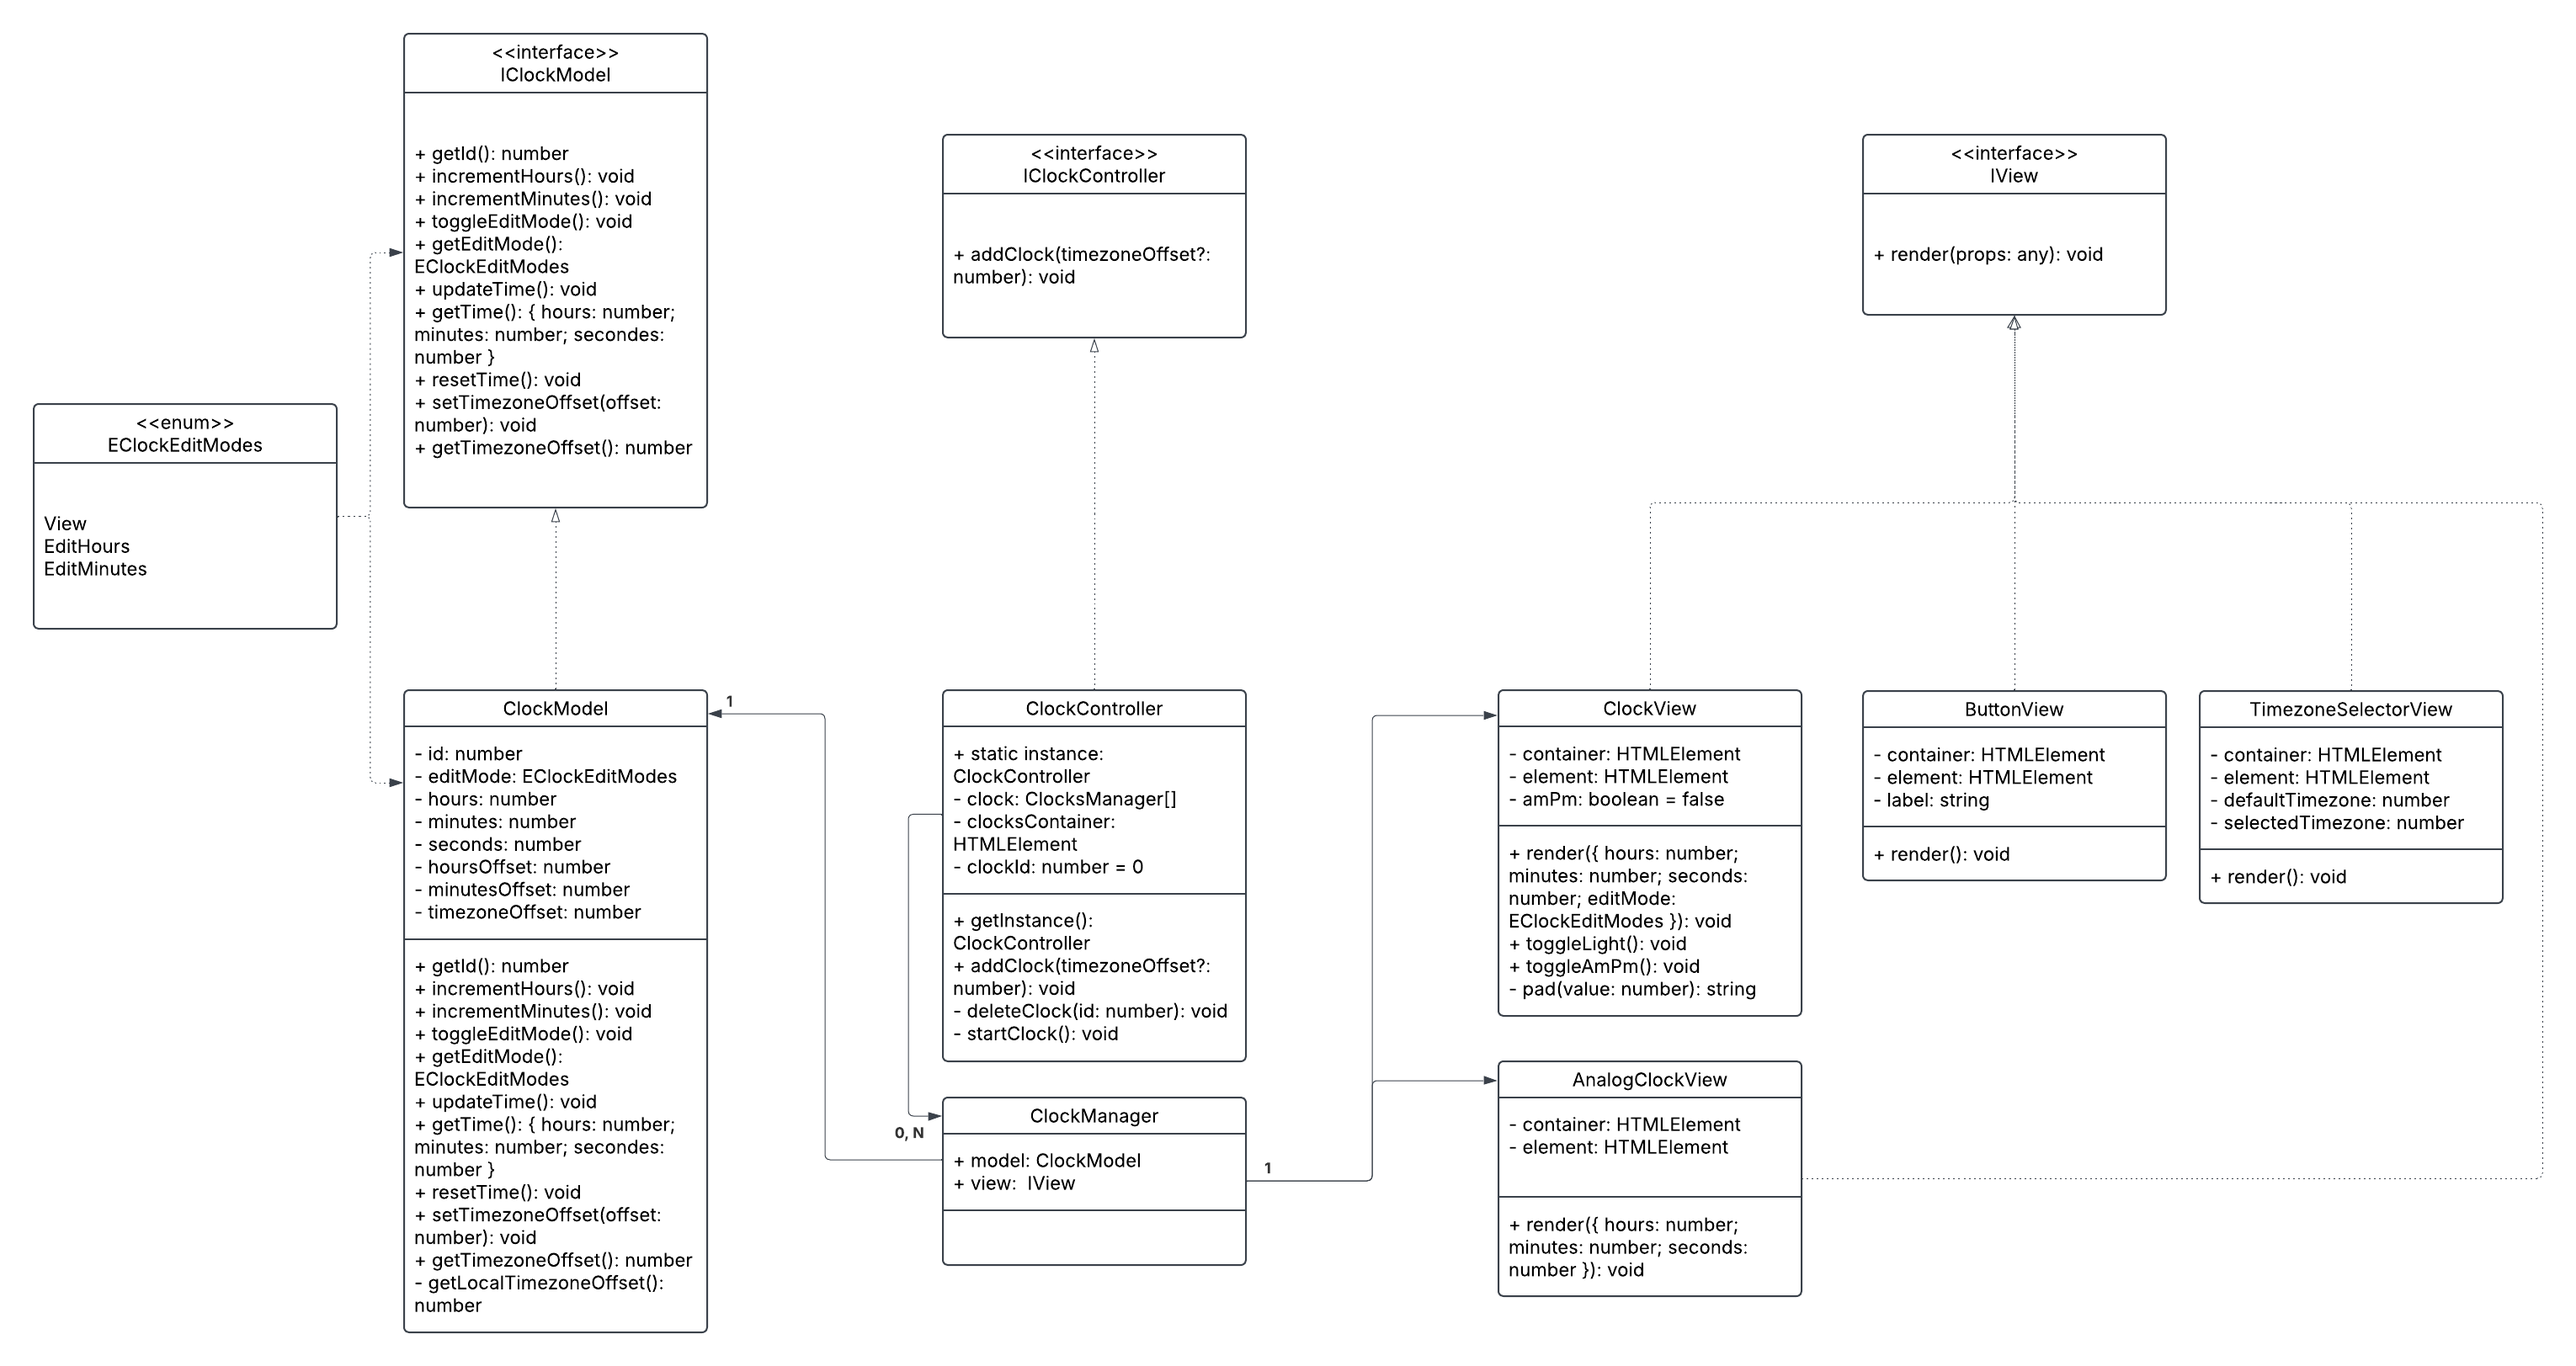
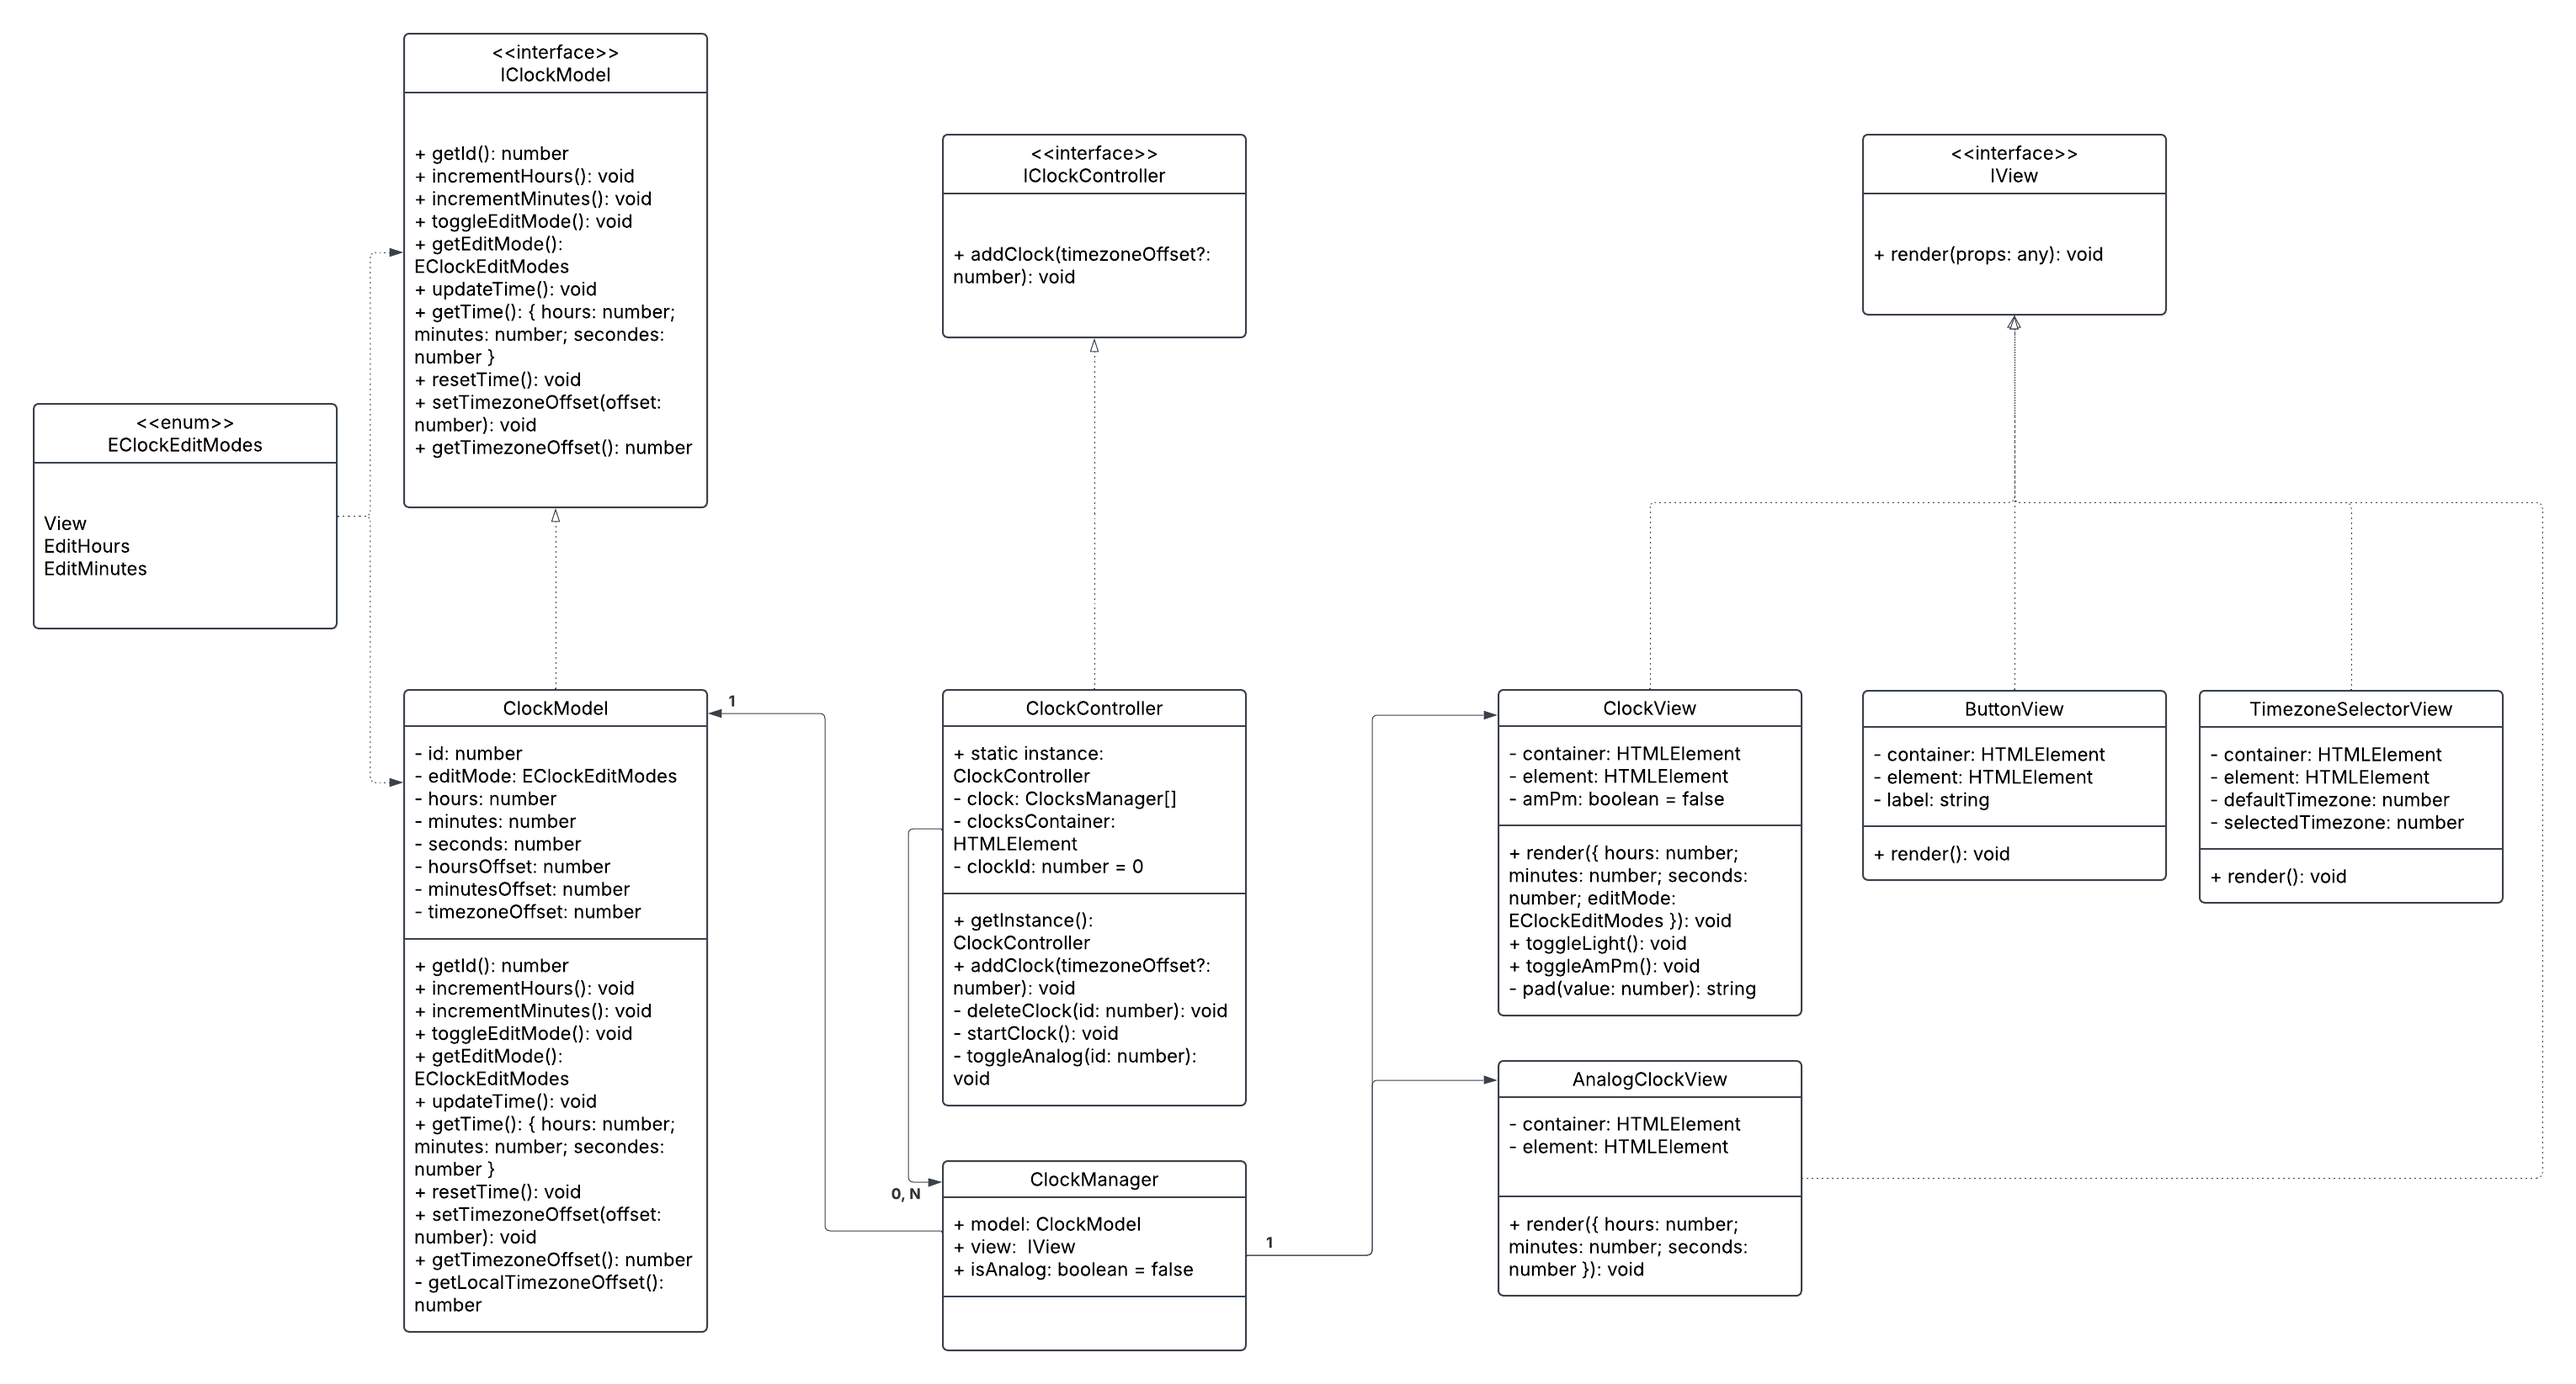
feat: toggle between analog & numeric

diff --git a/src/controllers/ClockController.ts b/src/controllers/ClockController.ts
@@ -4,10 +4,13 @@ import {ButtonView} from "../views/Buttons";
 import {EClockEditModes} from "../interfaces/IClockModel";
 import {IClockController} from "../interfaces/IClockController";
 import {TimezoneSelectorView} from "../views/TimezoneSelector";
+import {IView} from "../interfaces/IView";
+import {AnalogClockView} from "../views/Clock/AnalogClockView";
 
 type ClocksManager = {
     model: ClockModel;
-    view: ClockView;
+    view: IView;
+    isAnalog: boolean;
 }
 
 export class ClockController implements IClockController {
@@ -49,7 +52,7 @@ export class ClockController implements IClockController {
         // Clock model and view
         const clockModel = timezoneOffset ? new ClockModel(id, timezoneOffset) : new ClockModel(id);
         const clockView = new ClockView(id.toString());
-        this.clocks.push({model: clockModel, view: clockView});
+        this.clocks.push({model: clockModel, view: clockView, isAnalog: false});
         const renderData = {...clockModel.getTime(), editMode: clockModel.getEditMode()};
         clockView.render(renderData);
 
@@ -76,9 +79,12 @@ export class ClockController implements IClockController {
         new ButtonView(`wrapper-${id}`, "X", () => {
             this.deleteClock(id);
         }, "delete-button");
+        new ButtonView(`wrapper-${id}`, "Analog", () => {
+            this.toggleAnalog(id);
+        }, "analog-button");
 
         // Timezone selector
-        new TimezoneSelectorView(`${id}`, clockModel.getTimezoneOffset(), (timezone) => {
+        new TimezoneSelectorView(`wrapper-${id}`, clockModel.getTimezoneOffset(), (timezone) => {
             clockModel.setTimezoneOffset(timezone);
         });
 
@@ -100,5 +106,42 @@ export class ClockController implements IClockController {
                 clock.view.render({hours, minutes, seconds, editMode: clock.model.getEditMode()});
             })
         }, 250);
+    }
+
+    private toggleAnalog(id: number) {
+        const currentClock = this.clocks.find((clock) => clock.model.getId() === id);
+        currentClock.isAnalog = !currentClock.isAnalog;
+
+        // Clean previous clock
+        const clockElement = document.getElementById(id.toString());
+        if (clockElement) {
+            clockElement.innerHTML = "";
+        }
+
+        const buttons = document.querySelectorAll(`#wrapper-${id} button, #wrapper-${id} select`);
+        // remove clock style and delete button from the list
+        const filteredButton = Array.from(buttons).filter(btn =>
+            !btn.classList.contains("analog-button") && !btn.classList.contains("delete-button")
+        );
+
+        if (currentClock.isAnalog) {
+            // Hide buttons
+            filteredButton.forEach((button) => {
+                button.classList.add("hidden");
+            });
+
+            const analogClock = new AnalogClockView(id.toString());
+            currentClock.view = analogClock;
+            analogClock.render(currentClock.model.getTime());
+        } else {
+            // Show buttons
+            filteredButton.forEach((button) => {
+                button.classList.remove("hidden");
+            });
+
+            const digitalClock = new ClockView(id.toString());
+            currentClock.view = digitalClock;
+            digitalClock.render({...currentClock.model.getTime(), editMode: currentClock.model.getEditMode()});
+        }
     }
 }

diff --git a/src/views/Clock/AnalogClockView.ts b/src/views/Clock/AnalogClockView.ts
@@ -1,0 +1,35 @@
+import {IView} from "../../interfaces/IView";
+
+export type AnalogClockViewRenderProps = {
+    hours: number;
+    minutes: number;
+    seconds: number;
+}
+
+export class AnalogClockView implements IView {
+    private container: HTMLElement;
+    private readonly element: HTMLElement;
+
+    constructor(containerId: string) {
+        const container = document.getElementById(containerId);
+        if (!container) {
+            throw new Error(`Container with id "${containerId}" not found.`);
+        }
+        this.container = container;
+        this.element = document.createElement("div");
+        this.element.classList.add("clock-screen-analog");
+        this.container.appendChild(this.element);
+    }
+
+    public render({hours, minutes, seconds}: AnalogClockViewRenderProps): void {
+        this.element.innerHTML = `
+        <div class="clock">
+            <div class="clock-face">
+                <div class="hand hour" style="transform: rotate(${hours * 30}deg)"></div>
+                <div class="hand minute" style="transform: rotate(${minutes * 6}deg)"></div>
+                <div class="hand second" style="transform: rotate(${seconds * 6}deg)"></div>
+            </div>
+        </div>
+        `;
+    }
+}

diff --git a/src/views/Buttons/button.css b/src/views/Buttons/button.css
@@ -39,9 +39,9 @@
 }
 
 .delete-button {
-    visibility: hidden;
-    top: 30px;
-    left: 50%;
+
+    top: 110%;
+    left: 75%;
     transform: translateX(-50%);
     background: transparent;
     border-radius: 100%;
@@ -55,6 +55,12 @@
     z-index: 100;
 }
 
-.clock-wrapper:hover .delete-button {
-    visibility: visible;
+.analog-button {
+    top: 110%;
+    left: 40%;
+    transform: translateX(-50%);
+    background: transparent;
+    color: darkslategrey;
+    border: 2px solid darkslategrey;
+    border-radius: 8px;
 }

diff --git a/src/views/TimezoneSelector/timezoneSelector.css b/src/views/TimezoneSelector/timezoneSelector.css
@@ -3,4 +3,5 @@
     top: 75%;
     left: 50%;
     transform: translate(-50%, -50%);
+    z-index: 50;
 }

diff --git a/src/index.css b/src/index.css
@@ -34,3 +34,7 @@ h1 {
         aspect-ratio: 1;
     }
 }
+
+.hidden {
+    display: none;
+}
